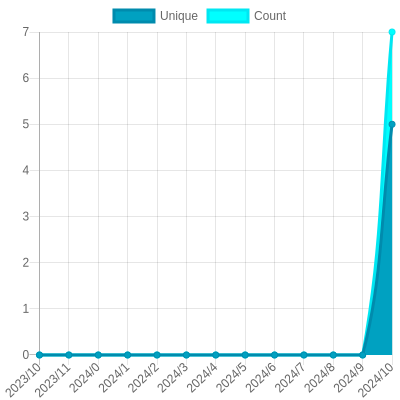
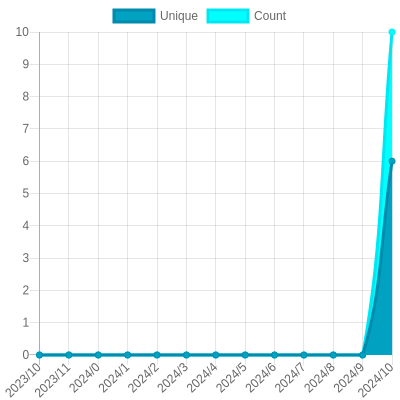
Update views

diff --git a/readme/487779296/year.md b/readme/487779296/year.md
@@ -23,10 +23,10 @@
 			<code>2023/11/1</code>
 		</td>
 		<td>
-			<code>5</code>
+			<code>6</code>
 		</td>
 		<td>
-			<code>7</code>
+			<code>10</code>
 		</td>
 	</tr>
 	<tr>
@@ -164,7 +164,7 @@
 </table>
 
 </details>
-<small><i>Last updated on 2023/11/23 12:25 PM UTC</i></small>
+<small><i>Last updated on 2023/11/23 6:16 PM UTC</i></small>
 
 ## ✂Copy and 📋 Paste
 ### SVG Badge

diff --git a/README.md b/README.md
@@ -149,7 +149,7 @@ The project created and maintained by [gayanvoice](https://github.com/gayanvoice
 	</tr>
 </table>
 
-<small><i>Last updated on 2023/11/23 12:26 PM UTC</i></small>
+<small><i>Last updated on 2023/11/23 6:17 PM UTC</i></small>
 
 ## ✂Copy and 📋 Paste
 ### Total Views Badge

diff --git a/readme/477768783/year.md b/readme/477768783/year.md
@@ -164,7 +164,7 @@
 </table>
 
 </details>
-<small><i>Last updated on 2023/11/23 12:26 PM UTC</i></small>
+<small><i>Last updated on 2023/11/23 6:16 PM UTC</i></small>
 
 ## ✂Copy and 📋 Paste
 ### SVG Badge

diff --git a/readme/477770883/year.md b/readme/477770883/year.md
@@ -164,7 +164,7 @@
 </table>
 
 </details>
-<small><i>Last updated on 2023/11/23 12:25 PM UTC</i></small>
+<small><i>Last updated on 2023/11/23 6:16 PM UTC</i></small>
 
 ## ✂Copy and 📋 Paste
 ### SVG Badge

diff --git a/readme/482801964/year.md b/readme/482801964/year.md
@@ -164,7 +164,7 @@
 </table>
 
 </details>
-<small><i>Last updated on 2023/11/23 12:25 PM UTC</i></small>
+<small><i>Last updated on 2023/11/23 6:16 PM UTC</i></small>
 
 ## ✂Copy and 📋 Paste
 ### SVG Badge

diff --git a/readme/487820746/year.md b/readme/487820746/year.md
@@ -164,7 +164,7 @@
 </table>
 
 </details>
-<small><i>Last updated on 2023/11/23 12:25 PM UTC</i></small>
+<small><i>Last updated on 2023/11/23 6:15 PM UTC</i></small>
 
 ## ✂Copy and 📋 Paste
 ### SVG Badge

diff --git a/readme/494387309/year.md b/readme/494387309/year.md
@@ -164,7 +164,7 @@
 </table>
 
 </details>
-<small><i>Last updated on 2023/11/23 12:25 PM UTC</i></small>
+<small><i>Last updated on 2023/11/23 6:16 PM UTC</i></small>
 
 ## ✂Copy and 📋 Paste
 ### SVG Badge

diff --git a/readme/536989059/year.md b/readme/536989059/year.md
@@ -164,7 +164,7 @@
 </table>
 
 </details>
-<small><i>Last updated on 2023/11/23 12:25 PM UTC</i></small>
+<small><i>Last updated on 2023/11/23 6:16 PM UTC</i></small>
 
 ## ✂Copy and 📋 Paste
 ### SVG Badge

diff --git a/readme/560374483/year.md b/readme/560374483/year.md
@@ -164,7 +164,7 @@
 </table>
 
 </details>
-<small><i>Last updated on 2023/11/23 12:25 PM UTC</i></small>
+<small><i>Last updated on 2023/11/23 6:16 PM UTC</i></small>
 
 ## ✂Copy and 📋 Paste
 ### SVG Badge
